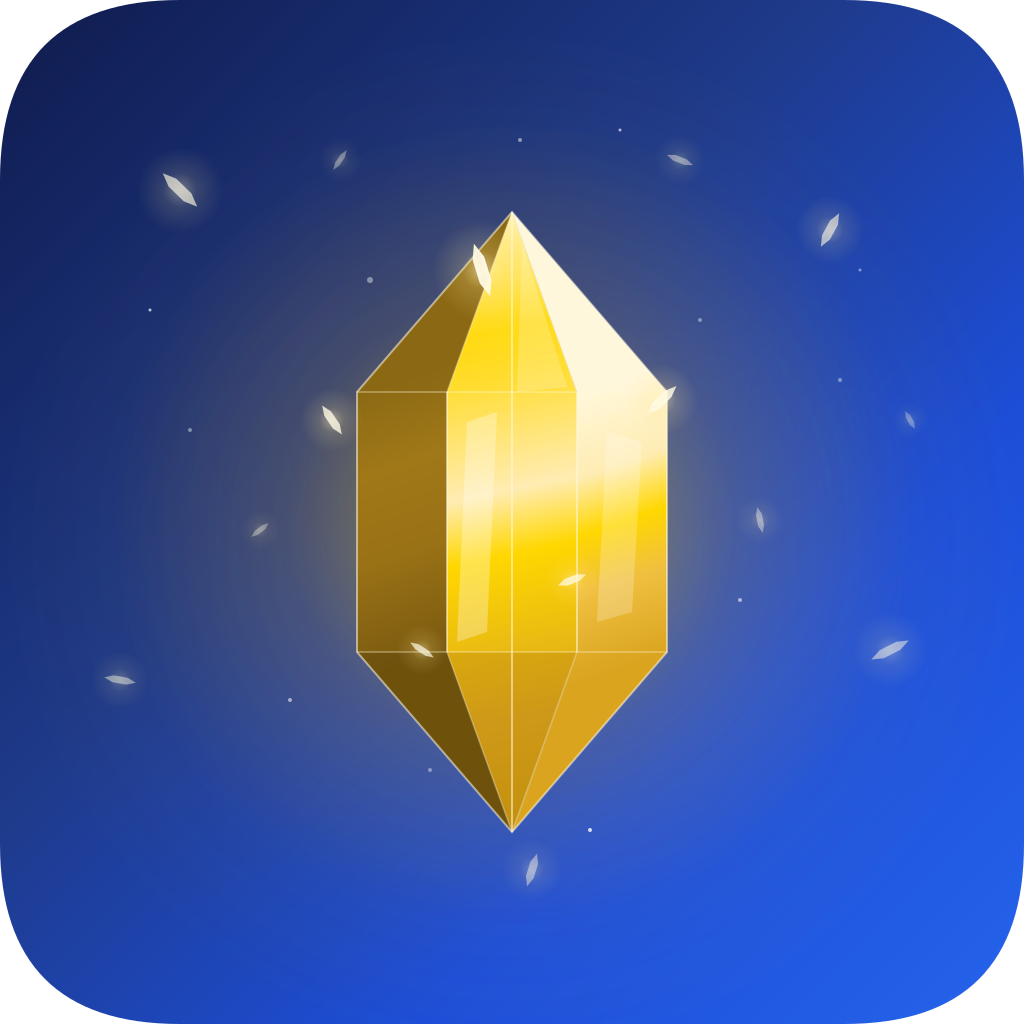
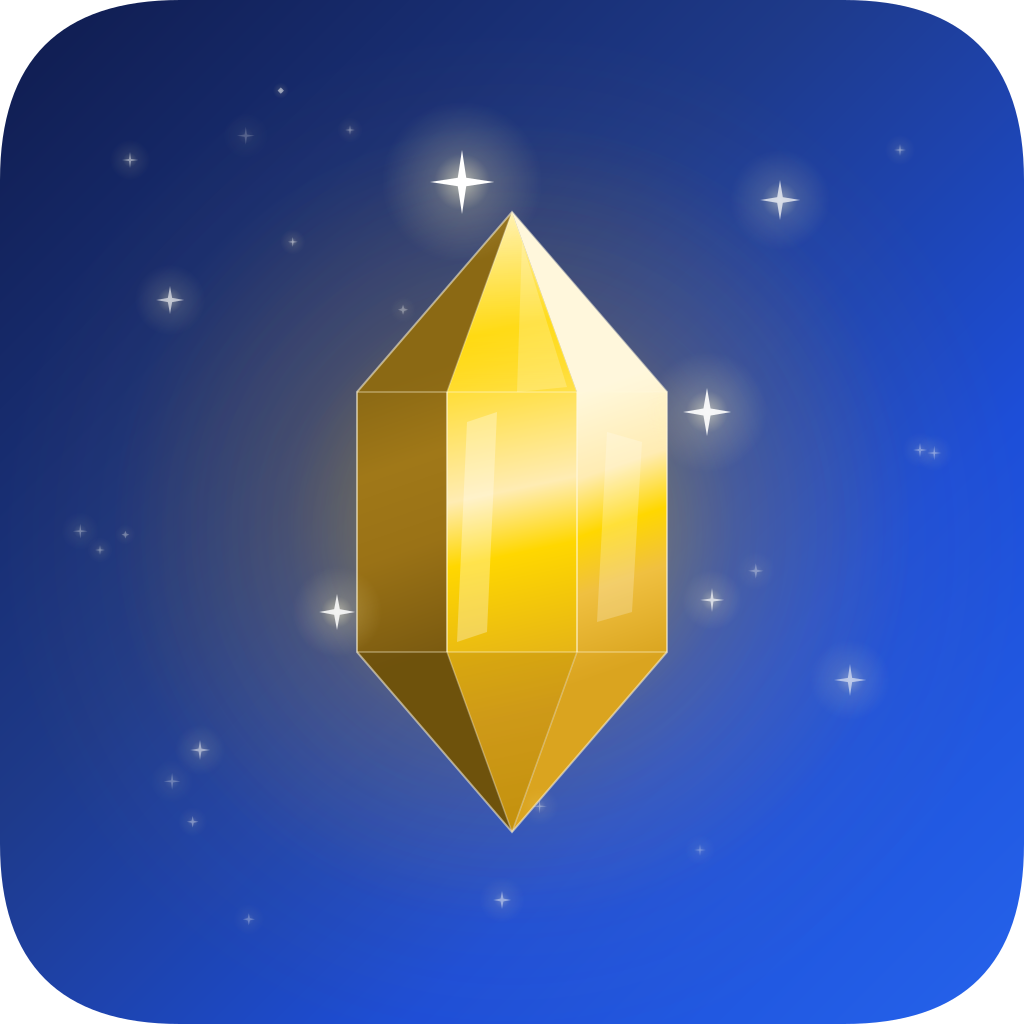
Remove center vertical line, use star sparkles with random sizes
- Remove tip-to-tip center line from crystal prism
- Replace crystal prism sparkles with 4-pointed stars
- Stars randomly distributed: big/bright near gem, small/dim far away
- Seeded RNG + manual placement for natural irregular scatter

diff --git a/scripts/generate-icon.js b/scripts/generate-icon.js
@@ -165,11 +165,10 @@ ctx.moveTo(cx, topTip); ctx.lineTo(bLeftOuter, topBody); ctx.lineTo(bLeftOuter, 
 ctx.lineTo(cx, botTip); ctx.lineTo(bRightOuter, botBody); ctx.lineTo(bRightOuter, topBody); ctx.closePath();
 ctx.stroke();
 
-// Inner ridges
+// Inner ridges (NO center vertical line — only left/right inner edges)
 ctx.beginPath();
 ctx.moveTo(bLeft, topBody); ctx.lineTo(bLeft, botBody);
 ctx.moveTo(bRight, topBody); ctx.lineTo(bRight, botBody);
-ctx.moveTo(cx, topTip); ctx.lineTo(cx, botTip);
 ctx.stroke();
 
 // Shoulder lines
@@ -206,56 +205,70 @@ ctx.beginPath();
 ctx.moveTo(cx + 10, topTip + 30); ctx.lineTo(bRight - 10, topBody - 5); ctx.lineTo(cx + 5, topBody);
 ctx.closePath(); ctx.fillStyle = '#FFFFFF'; ctx.fill(); ctx.restore();
 
-// === CRYSTAL PRISM SPARKLES ===
-const crystals = [
-  [cx - 30, 270, 55, 12, -0.3, 0.95],
-  [cx + 150, 400, 40, 9, 0.8, 0.85],
-  [cx - 180, 420, 35, 8, -0.6, 0.8],
-  [cx + 60, 580, 30, 7, 1.2, 0.75],
-  [cx - 90, 650, 28, 6, -1.0, 0.7],
-  [180, 190, 48, 11, -0.8, 0.65],
-  [830, 230, 38, 9, 0.5, 0.6],
-  [120, 680, 32, 7, -1.4, 0.45],
-  [890, 650, 42, 9, 1.1, 0.5],
-  [760, 520, 26, 6, -0.2, 0.4],
-  [260, 530, 22, 5, 0.9, 0.35],
-  [cx + 20, 870, 34, 8, 0.3, 0.45],
-  [680, 160, 28, 6, -1.2, 0.4],
-  [340, 160, 24, 5, 0.6, 0.35],
-  [910, 420, 20, 5, -0.5, 0.3],
+// === STAR SPARKLES (大大小小随机分布) ===
+function drawStar4(ctx, x, y, outerR, innerR) {
+  ctx.beginPath();
+  for (let i = 0; i < 8; i++) {
+    const angle = (Math.PI / 4) * i - Math.PI / 2;
+    const r = i % 2 === 0 ? outerR : innerR;
+    ctx.lineTo(x + Math.cos(angle) * r, y + Math.sin(angle) * r);
+  }
+  ctx.closePath();
+}
+
+// Seeded random for reproducibility
+let seed = 42;
+function rand() { seed = (seed * 16807 + 0) % 2147483647; return seed / 2147483647; }
+
+// Generate irregular star distribution — clustered near gem, sparse at edges
+const stars = [
+  // Big bright ones near gem (hero sparkles)
+  { x: cx - 50, y: topTip - 30, outer: 32, inner: 6, op: 1.0 },
+  { x: bRightOuter + 40, y: topBody + 20, outer: 24, inner: 5, op: 0.9 },
+  { x: bLeftOuter - 20, y: botBody - 40, outer: 18, inner: 4, op: 0.85 },
+  // Medium ones scattered
+  { x: 780, y: 200, outer: 20, inner: 4, op: 0.7 },
+  { x: 170, y: 300, outer: 14, inner: 3, op: 0.6 },
+  { x: 850, y: 680, outer: 16, inner: 3, op: 0.55 },
+  { x: cx + 200, y: 600, outer: 12, inner: 2, op: 0.65 },
+  { x: 200, y: 750, outer: 10, inner: 2, op: 0.45 },
+  // Small ones far from gem
+  { x: 130, y: 160, outer: 8, inner: 1.5, op: 0.4 },
+  { x: 900, y: 150, outer: 6, inner: 1, op: 0.35 },
+  { x: 920, y: 450, outer: 7, inner: 1.5, op: 0.3 },
+  { x: 100, y: 550, outer: 5, inner: 1, op: 0.3 },
+  { x: cx - 10, y: 900, outer: 9, inner: 2, op: 0.4 },
+  { x: 700, y: 850, outer: 6, inner: 1, op: 0.25 },
+  { x: 350, y: 130, outer: 5, inner: 1, op: 0.3 },
 ];
 
-crystals.forEach(([x, y, length, width, angle, opacity]) => {
-  const glowR = length * 0.9;
+// Add some randomly placed tiny stars for natural feel
+for (let i = 0; i < 12; i++) {
+  const x = 80 + rand() * 860;
+  const y = 80 + rand() * 860;
+  const outer = 3 + rand() * 6;
+  const inner = 0.8 + rand() * 1.5;
+  const op = 0.15 + rand() * 0.35;
+  stars.push({ x, y, outer, inner, op });
+}
+
+stars.forEach(({ x, y, outer, inner, op }) => {
+  // Glow halo (bigger for bigger stars)
+  const glowR = outer * 2.5;
   const sg = ctx.createRadialGradient(x, y, 0, x, y, glowR);
-  sg.addColorStop(0, `rgba(255, 248, 200, ${opacity * 0.6})`);
-  sg.addColorStop(0.4, `rgba(255, 230, 150, ${opacity * 0.2})`);
-  sg.addColorStop(1, 'rgba(255, 230, 150, 0)');
+  sg.addColorStop(0, `rgba(255, 250, 210, ${op * 0.65})`);
+  sg.addColorStop(0.35, `rgba(255, 240, 170, ${op * 0.2})`);
+  sg.addColorStop(1, 'rgba(255, 240, 170, 0)');
   ctx.fillStyle = sg;
   ctx.fillRect(x - glowR, y - glowR, glowR * 2, glowR * 2);
 
-  drawCrystalPrism(ctx, x, y, length, width, angle);
-  const cg = ctx.createLinearGradient(
-    x + Math.cos(angle) * (-length/2), y + Math.sin(angle) * (-length/2),
-    x + Math.cos(angle) * (length/2), y + Math.sin(angle) * (length/2)
-  );
-  cg.addColorStop(0, `rgba(255,255,255,${opacity*0.4})`);
-  cg.addColorStop(0.3, `rgba(255,255,255,${opacity})`);
-  cg.addColorStop(0.5, `rgba(255,248,220,${opacity})`);
-  cg.addColorStop(0.7, `rgba(255,255,255,${opacity})`);
-  cg.addColorStop(1, `rgba(255,255,255,${opacity*0.4})`);
-  ctx.fillStyle = cg;
+  // Star shape
+  ctx.save();
+  ctx.globalAlpha = op;
+  drawStar4(ctx, x, y, outer, inner);
+  ctx.fillStyle = '#FFFFFF';
   ctx.fill();
-});
-
-// Tiny dots
-const dots = [
-  [370,280,3],[700,320,2],[430,770,2],[590,830,2],[190,430,2],[840,380,2],
-  [520,140,2],[740,600,2],[290,700,2],[150,310,1.5],[860,270,1.5],[620,130,1.5],
-];
-dots.forEach(([x, y, r]) => {
-  ctx.beginPath(); ctx.arc(x, y, r, 0, Math.PI * 2);
-  ctx.fillStyle = `rgba(255,255,255,${0.4 + Math.random() * 0.4})`; ctx.fill();
+  ctx.restore();
 });
 
 // === SAVE ===
